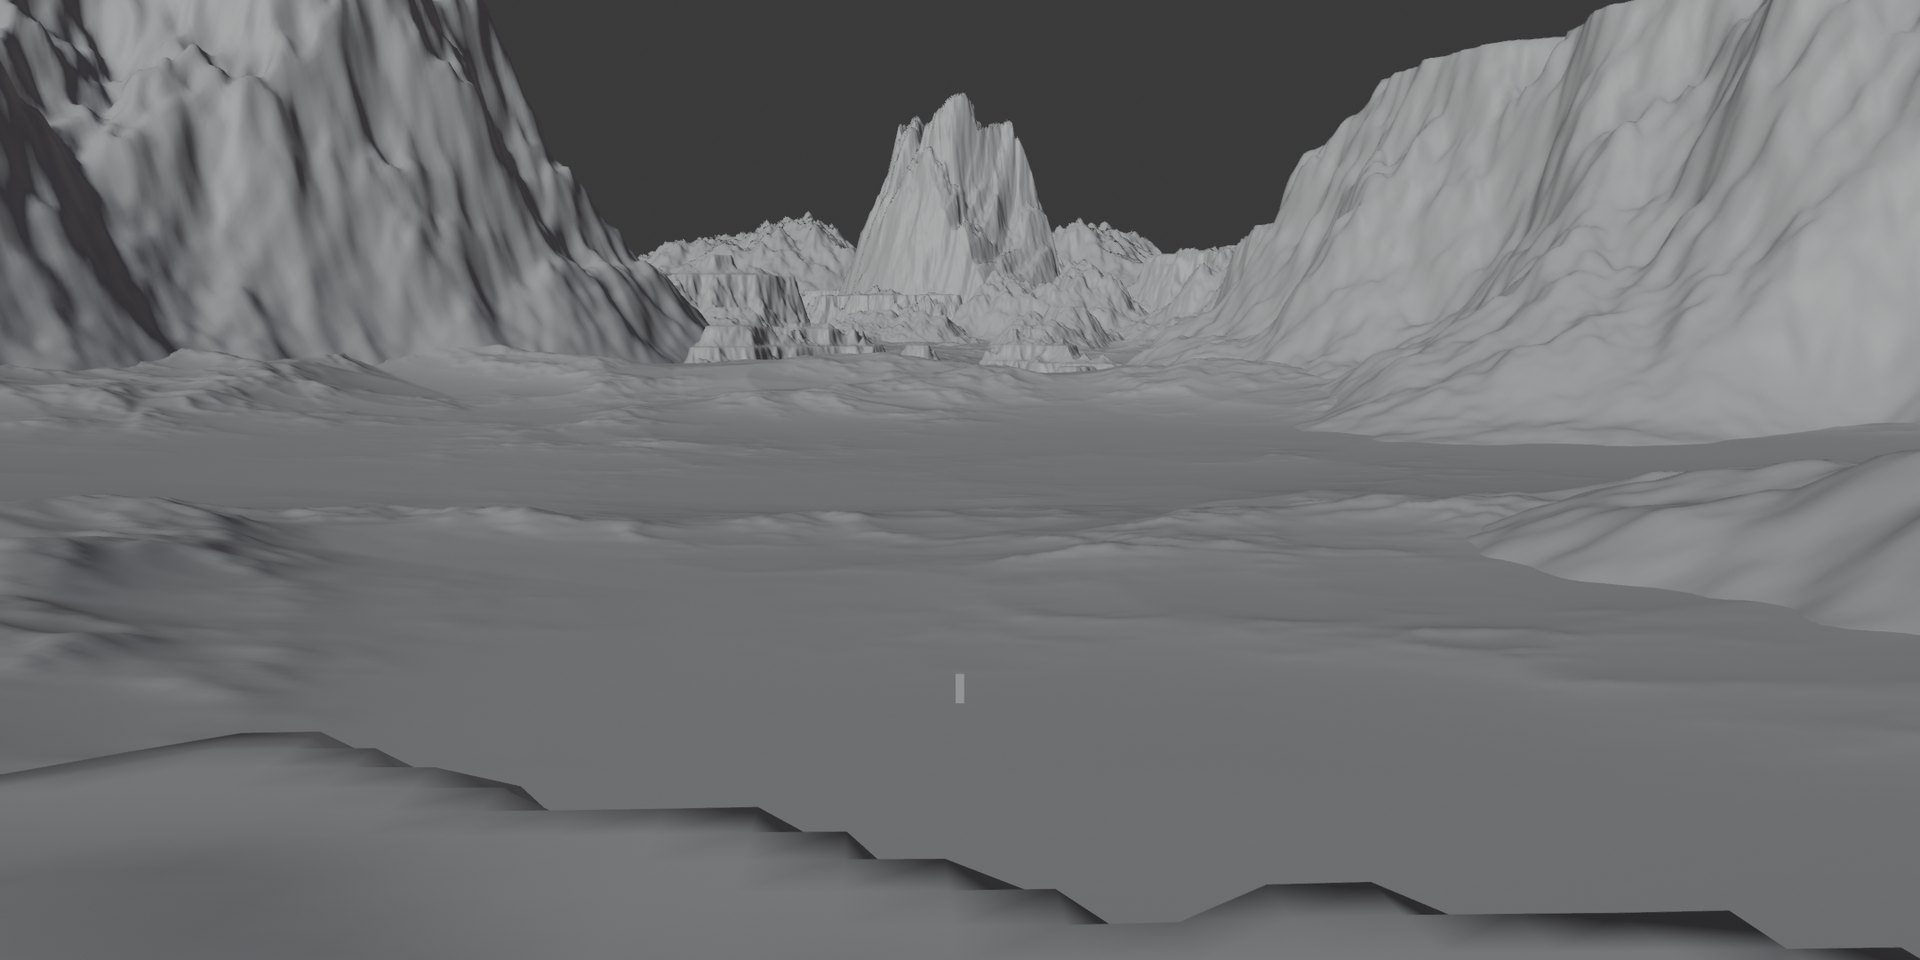
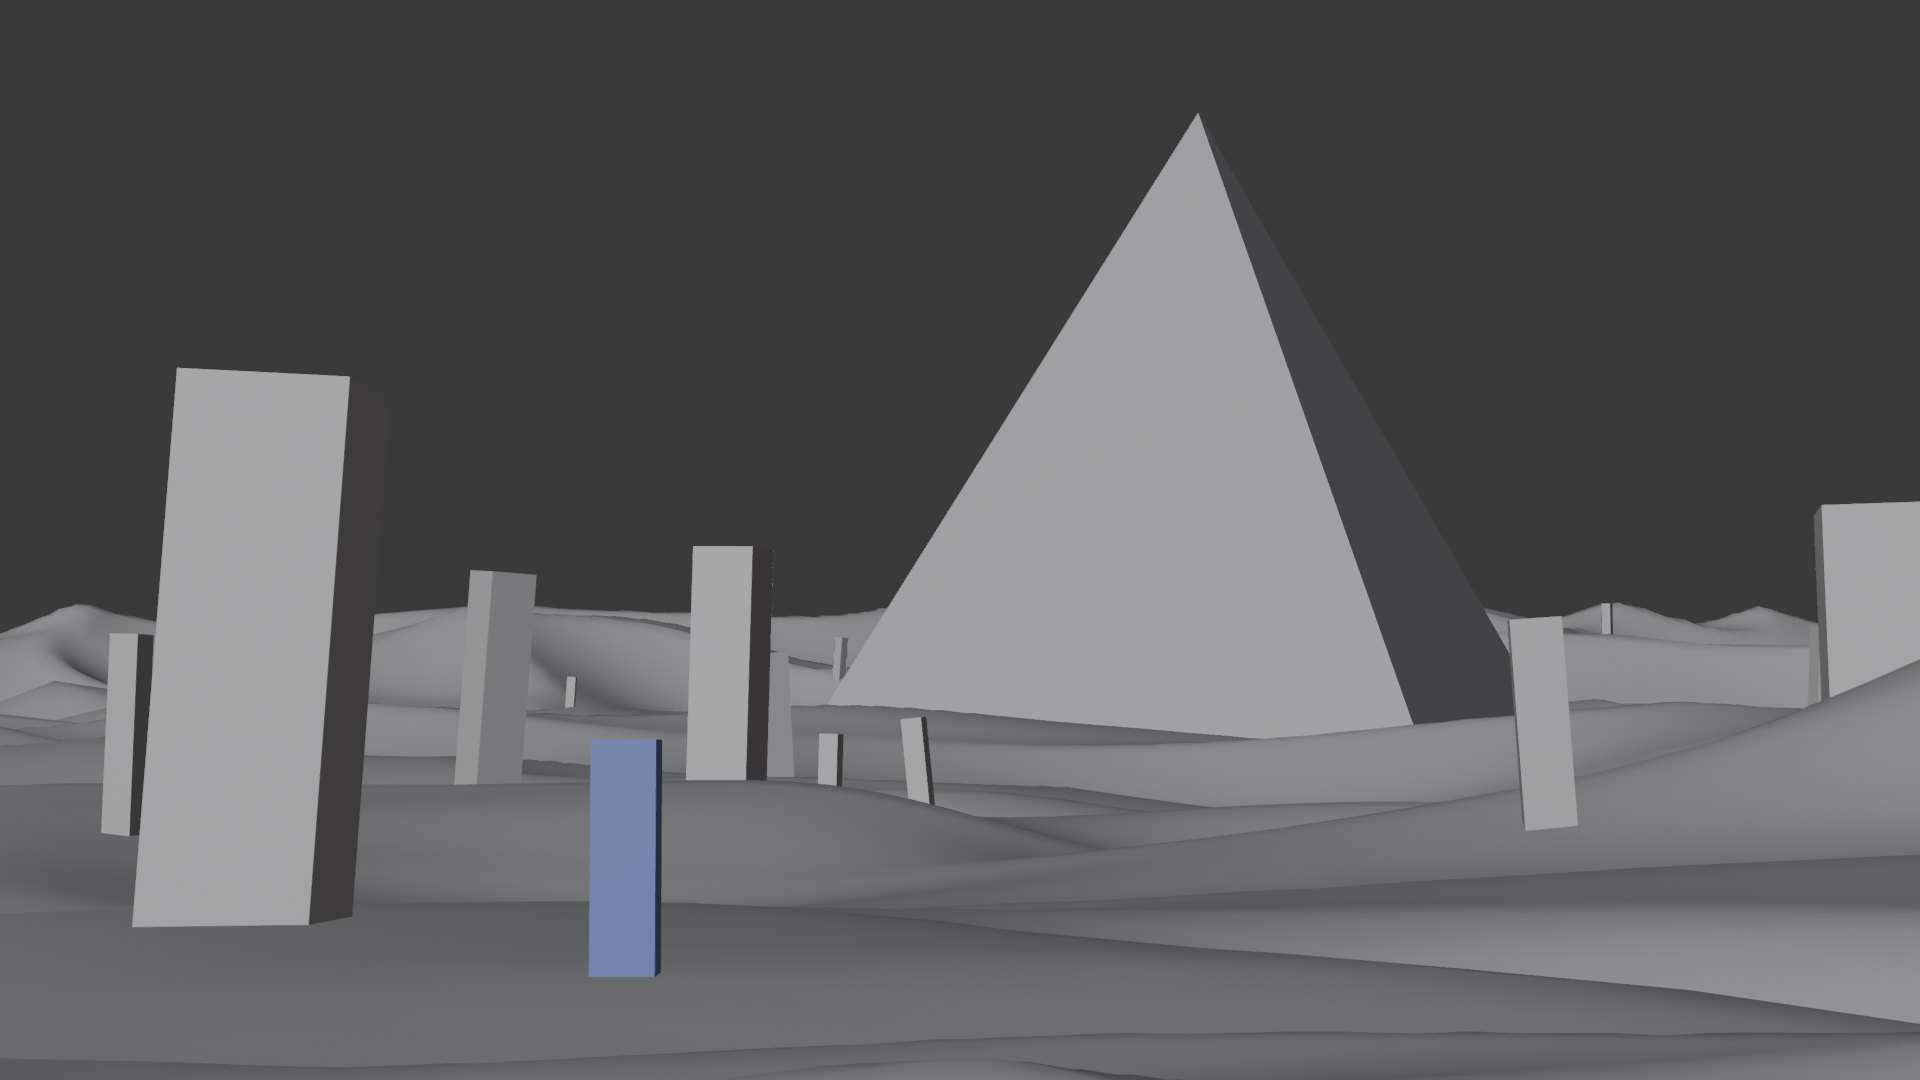
概念图作品条新增2.1一对（3.1后插03/04），1.1系列顺延05/06；29项测试过

diff --git a/scripts/process-b-assets.py b/scripts/process-b-assets.py
@@ -56,10 +56,13 @@ MAPPINGS = {
     '3D类/UE5影视地编作品-悬崖/远处山林-2.png': 'cliff-forest-far.jpg',
     # ---- 3D 类：AI 生成前期场景概念图（2026-09-09 二轮：四张按作品条展示顺序命名 01-04，
     #      3.1 一对在前（AI 图为封面），1.1 一对在后；.af 源文件与（未修改）（未精修）变体不入）----
+    # 2026-09-10 三轮：2.1 一对插入 3.1 之后（03/04），1.1 一对顺延 05/06
     '3D类/AI生成前期场景概念图/AI概念图_Short_3.1.png': 'ai-concept-01.jpg',
     '3D类/AI生成前期场景概念图/Blender白膜_Short_3.1.png': 'ai-concept-02.jpg',
-    '3D类/AI生成前期场景概念图/AI概念图_Short_1.1.png': 'ai-concept-03.jpg',
-    '3D类/AI生成前期场景概念图/Blender白膜_Short_1.1.png': 'ai-concept-04.jpg',
+    '3D类/AI生成前期场景概念图/AI概念图_Short_2.1.png': 'ai-concept-03.jpg',
+    '3D类/AI生成前期场景概念图/Blender白膜_Short_2.1.png': 'ai-concept-04.jpg',
+    '3D类/AI生成前期场景概念图/AI概念图_Short_1.1.png': 'ai-concept-05.jpg',
+    '3D类/AI生成前期场景概念图/Blender白膜_Short_1.1.png': 'ai-concept-06.jpg',
     # ---- 3D 类：Metahuman 图集 + AI 辅助过程（过程图按用户尾缀 -1..-8 定序）----
     '3D类/Metahuman服装角色流程/UE5中角色全身截图（用于生成AI做参考）-3.png': 'meta-fullbody.jpg',
     '3D类/Metahuman服装角色流程/Metahuman卡片封面.png': 'meta-card.jpg',

diff --git a/src/content/works/ai-concept.md b/src/content/works/ai-concept.md
@@ -15,6 +15,8 @@ gallery: [
     /works/ai-concept-02.jpg,
     /works/ai-concept-03.jpg,
     /works/ai-concept-04.jpg,
+    /works/ai-concept-05.jpg,
+    /works/ai-concept-06.jpg,
   ]
 ---
 
